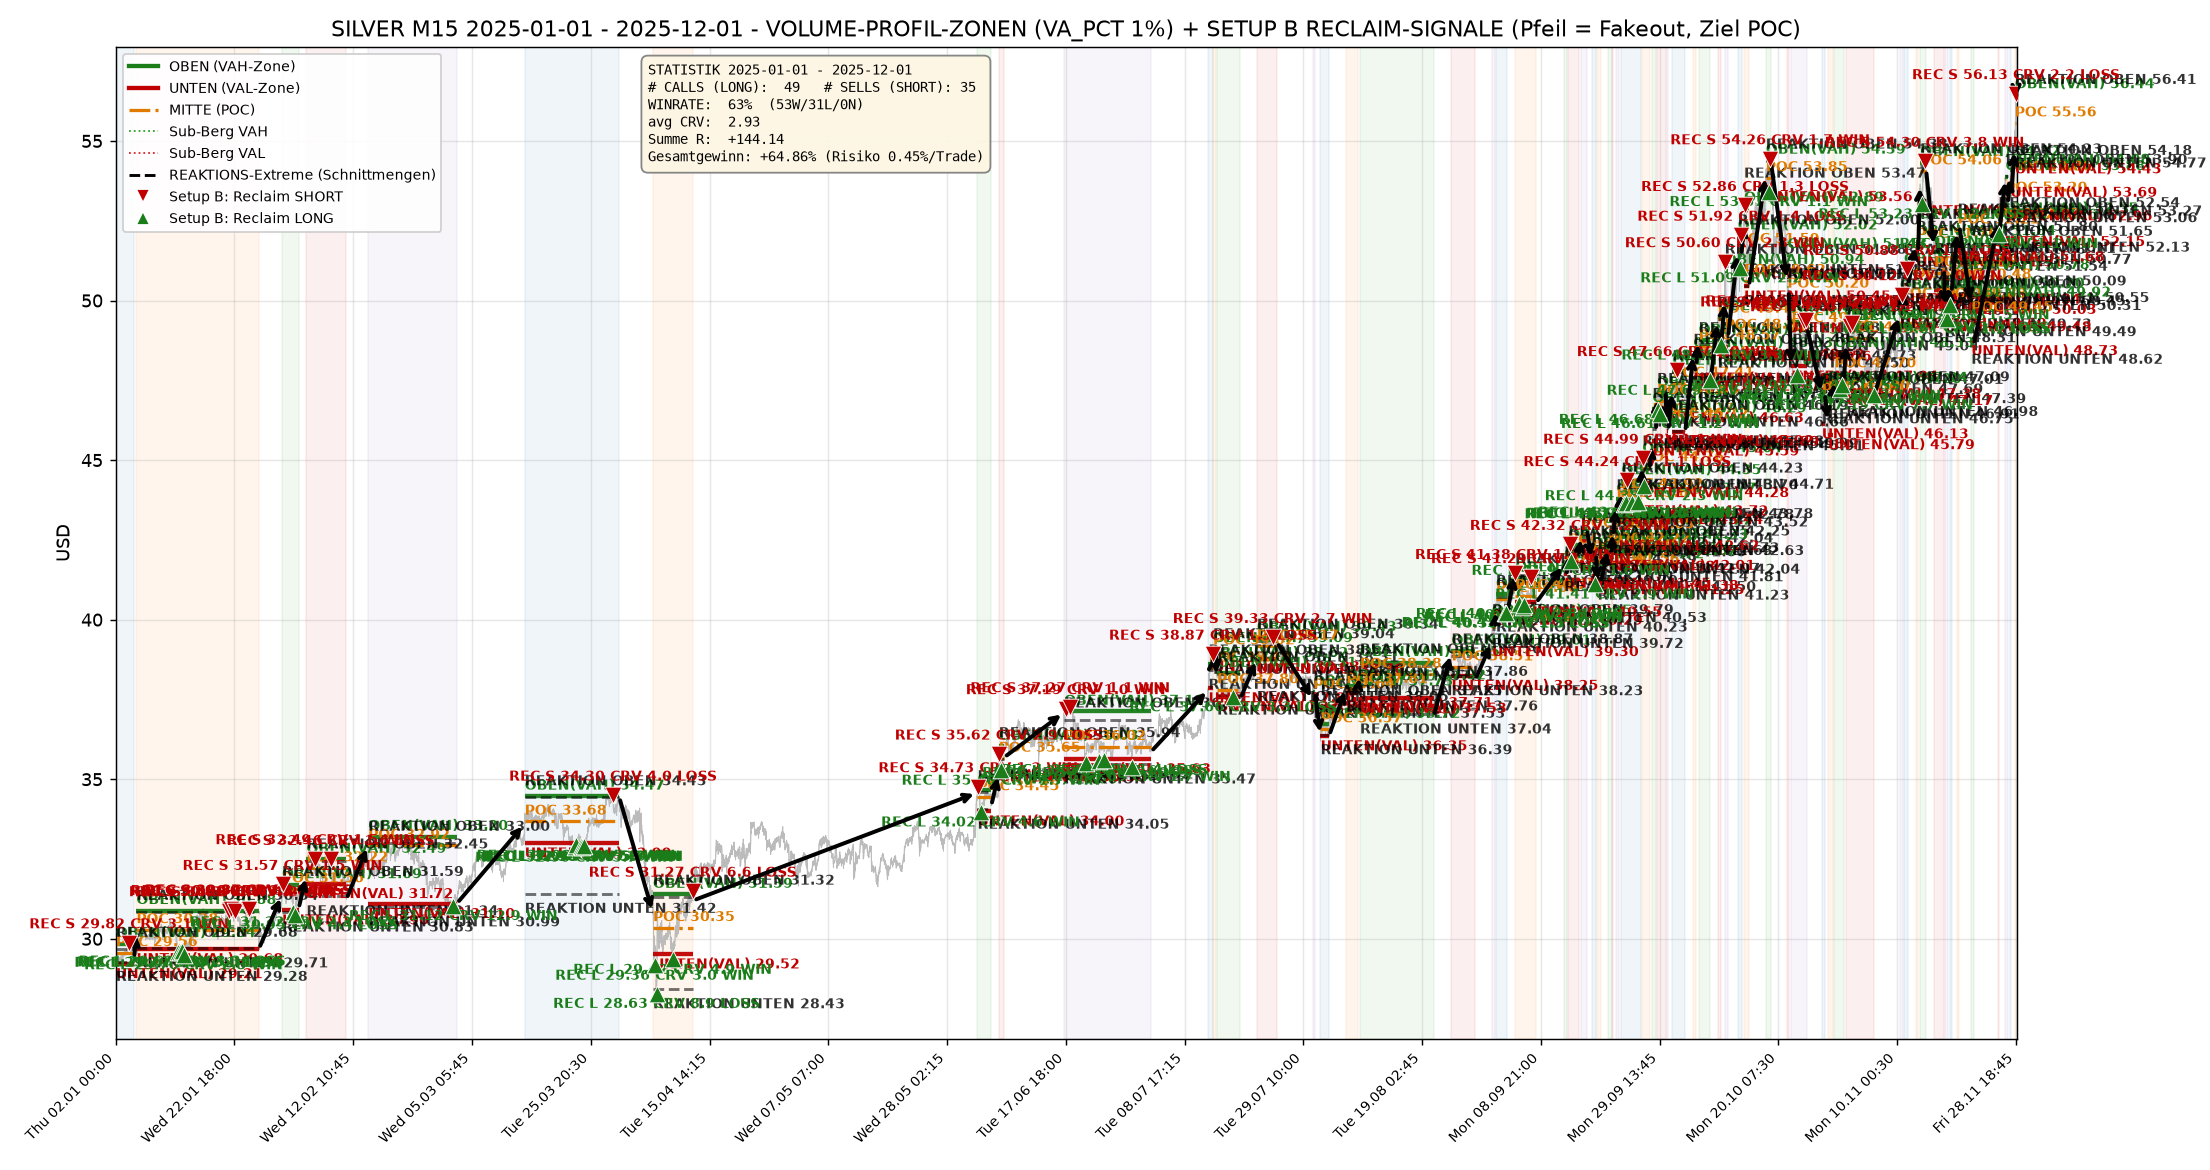
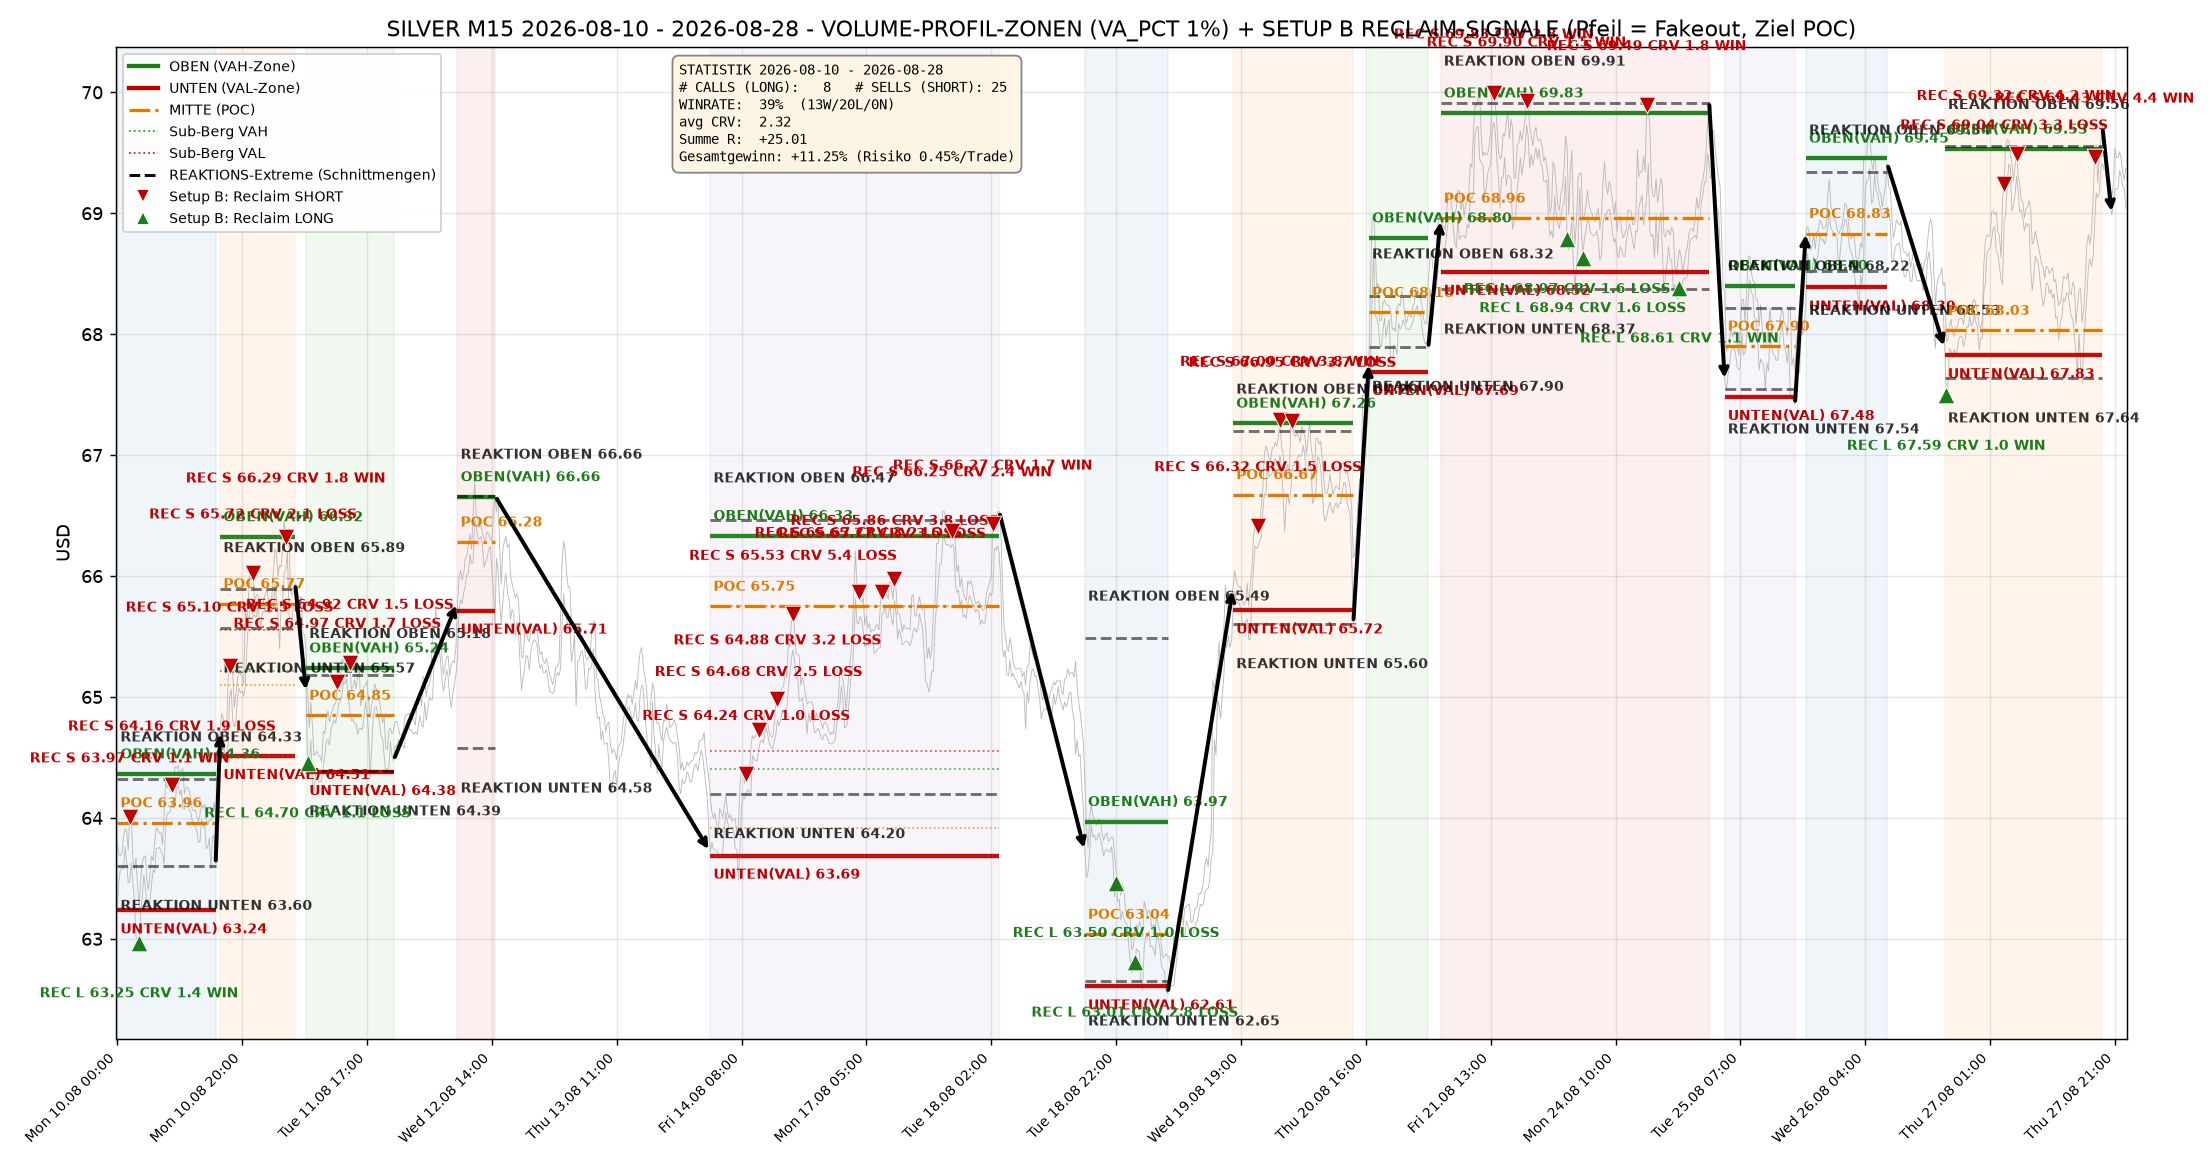
Lookahead tests

diff --git a/scripts/tmp_phasen_volumen_profil.py b/scripts/tmp_phasen_volumen_profil.py
@@ -136,12 +136,17 @@ MIN_RECLAIM_BOUNCE = 2    # min. Bounce-Nummer an der Kante.
                           #   Bo=1-Signale sind zu 82% Verluste (14/17, netto -5.26R)
                           #   und werden gefiltert. Per --bounce=N testbar.
 MIN_RECLAIM_CRV = 1.0     # min. CRV (Risiko-Ertrag) fuer ein Signal (Patrick ~1:3)
-MIN_SIGNAL_ABSTAND_BARS = 12  # Cooldown: keine 2 Signale gleicher Richtung in 12 Bars
-                              #   GETESTET (Reihentest 05.02.-28.08.26, 82-95 Signale):
-                              #   Sweet Spot CD=12: +91.60R / avg +1.08 (klar vor CD=8
-                              #   +91.25, CD=10 +84.81, CD=14 +88.92, CD=16 +82.83).
-                              #   Fruherer CD=16-Default stammte nur aus Aug+Jun mit
-                              #   50/50-Split - haelt dem grossen Sample nicht stand.
+MIN_SIGNAL_ABSTAND_BARS = 8   # Cooldown: keine 2 Signale gleicher Richtung in 8 Bars
+                              #   GETESTET (kausal, Re-Optimierung 31.08.2026, 2 Samples):
+                              #   S1 2026-02-05..08-28: CD=8 +219.14R/226 Sig/43% WR vs.
+                              #   CD=12 +197.26R/201 Sig/44% WR (alter Lookahead-Default).
+                              #   S2 2025-01-01..12-01 (OOS): CD=8 +110.79R/240 Sig vs.
+                              #   CD=12 +99.88R/210 Sig. CD=8 gewinnt BEIDE Samples
+                              #   (+22R/+11R) bei gleichem avg R -> mehr Signale gleicher
+                              #   Qualitaet, kein Overfit (CD=14 war nur in S1 gut =
+                              #   verworfen). CD=6 bringt weitere +11R/+5R, aber mit
+                              #   abnehmendem Grenznutzen und sinkendem avg R -> CD=8
+                              #   als Knie-Punkt gewaehlt. Per --cooldown=N testbar.
 SL_PCT = 0.45             # SL bei Entry: % vom Einstiegspreis (SHORT +, LONG -)
                           #   GETESTET (Reihentest 05.02.-28.08.26, 82 Signale):
                           #   Sweet Spot 0.35-0.45; 0.45 = hoechster avg R +0.98
@@ -847,11 +852,12 @@ print(f"RESULTAT: {len(phases)} Phasen gesamt, {len(_relevant)} ab 21.08. (Refer
 # (Reclaim). Einstieg NACH Bestaetigung, Ziel = POC (Fair Value), SL
 # hinter der Kante.
 #
-# KAUSALITAET: Fuer jede Kandidaten-Bar wird das Volume-Profil NUR bis zu
-# dieser Bar berechnet (laufende Zone - kein Lookahead). Die finale
-# Phasen-Zone dient nur als Kandidaten-Screening; Bars, die nur die
-# laufende, nie die finale Kante erreichen, gelten als "Zone noch nicht
-# etabliert" und werden uebersprungen (passt zu Patricks 3-Touch-Regel).
+# KAUSALITAET (Bereinigt 31.08.2026): Der Signal-Loop ist REIN SEQUENTIELL
+# in Echtzeit - fuer jede Bar k wird das Volume-Profil NUR bis zu dieser
+# Bar berechnet (laufende Zone, kein Blick in die Zukunft). Es gibt KEIN
+# finales Zonen-Screening mehr: Jede Bar der Phase wird gegen ihre laufende
+# Zone geprueft, genau wie ein Live-Trader es zum Zeitpunkt des Signals
+# tun wuerde.
 def _laufende_zone(df, p, k):
     """Volume-Zone kausal bis Bar k (inklusive)."""
     return compute_volume_zone(df.iloc[p["i_start"]:k + 1])
@@ -1014,10 +1020,6 @@ def find_reclaim_signals(df, p, min_candles=MIN_RECLAIM_CANDLES,
     - Cooldown: keine 2 Signale gleicher Richtung innerhalb cooldown_bars.
     """
     sigs = []
-    vz_full = p.get("vol_zone")
-    if vz_full is None:
-        return sigs
-    U_full, L_full = vz_full["U_zone"], vz_full["L_zone"]
     hi = df["high"].values
     lo = df["low"].values
     cl = df["close"].values
@@ -1027,11 +1029,13 @@ def find_reclaim_signals(df, p, min_candles=MIN_RECLAIM_CANDLES,
     tp2_puffer = TP2_PUFFER_PCT / 100.0
     sl_p = SL_PCT / 100.0
 
-    # Kandidaten-Screening: Bars ausserhalb der FINALEN Kante (vektorisiert)
-    cand = np.where((hi > U_full) | (lo < L_full))[0]
-    cand = cand[(cand >= p["i_start"]) & (cand < p["i_ende"])]
-
-    for k in cand:
+    # REIN SEQUENTIELL (kein Lookahead): JEDE Bar der Phase wird einzeln
+    # durchlaufen. Die laufende Zone wird nur aus den Bars i_start..k
+    # berechnet - zum Zeitpunkt des Signals existieren exakt diese Bars.
+    # Ein finales Zonen-Screening gibt es bewusst NICHT mehr (Bereinigung
+    # 31.08.2026: frueher filterte die FINALE Zone der ganzen Phase die
+    # Kandidaten vor - ein Blick in die Zukunft).
+    for k in range(p["i_start"], p["i_ende"]):
         if k - p["i_start"] + 1 < min_candles:
             continue
         vz = _laufende_zone(df, p, k)
@@ -1046,7 +1050,7 @@ def find_reclaim_signals(df, p, min_candles=MIN_RECLAIM_CANDLES,
         if hi[k] > U:
             if cl[k] <= U:
                 e_bar, e_preis, reclaim = k + 1, float(op[k + 1]), "in_bar"
-            elif k + 1 <= p["i_ende"] and cl[k + 1] <= U:
+            elif k + 2 <= p["i_ende"] and cl[k + 1] <= U:
                 e_bar, e_preis, reclaim = k + 2, float(op[k + 2]), "next_bar"
             else:
                 e_bar, reclaim = None, None
@@ -1075,7 +1079,7 @@ def find_reclaim_signals(df, p, min_candles=MIN_RECLAIM_CANDLES,
         if lo[k] < L:
             if cl[k] >= L:
                 e_bar, e_preis, reclaim = k + 1, float(op[k + 1]), "in_bar"
-            elif k + 1 <= p["i_ende"] and cl[k + 1] >= L:
+            elif k + 2 <= p["i_ende"] and cl[k + 1] >= L:
                 e_bar, e_preis, reclaim = k + 2, float(op[k + 2]), "next_bar"
             else:
                 e_bar, reclaim = None, None
@@ -1234,8 +1238,8 @@ _trail_txt = f" | TRAILING {TRAILING_PCT:.2f}%" if TRAILING_PCT > 0 else ""
 _nach_txt = "SL bleibt am Entry (kein Nachzug)"
 _ant_txt = (f"{ANTEIL_TP1:.0f}/{100-ANTEIL_TP1:.0f}" if 0 < ANTEIL_TP1 < 100
             else ("100/0" if ANTEIL_TP1 >= 100 else "0/100"))
-print(f"\n=== SETUP B: RECLAIM-SIGNALE (SL {SL_PCT:.1f}% Entry; {_nach_txt}; "
-      f"TP2=Box-Ende innen 0.15%; Split {_ant_txt}{_trail_txt}; alle aufgeloest) ===")
+print(f"\n=== SETUP B: RECLAIM-SIGNALE (SL {SL_PCT:.2f}% Entry; {_nach_txt}; "
+      f"TP2=Box-Ende innen {TP2_PUFFER_PCT:.2f}%; Split {_ant_txt}{_trail_txt}; alle aufgeloest) ===")
 if not reclaim_signals:
     print("  keine Signale")
 for s in reclaim_signals:
@@ -1245,7 +1249,7 @@ for s in reclaim_signals:
           f"| CRV {s['crv']:.2f} | Bo {s['bounce_nr']} | H1 {s['exit1']:.3f} ({s['grund1']}) {s['r1']:+.2f}R | "
           f"H2 {s['exit2']:.3f} ({s['grund2']}) {s['r2']:+.2f}R | {s['resultat']} {s['r_mult']:+.2f}R")
 
-print(f"\n=== STATISTIK SETUP B (SL {SL_PCT:.1f}% Entry; {_nach_txt}; Split {_ant_txt}{_trail_txt}) ===")
+print(f"\n=== STATISTIK SETUP B (SL {SL_PCT:.2f}% Entry; {_nach_txt}; Split {_ant_txt}{_trail_txt}) ===")
 print(f"  Signale: {len(reclaim_signals)} | GEWONNEN {_n_win} | VERLOREN {_n_loss} | NEUTRAL {_n_neu}")
 if _n_win + _n_loss > 0:
     print(f"  Trefferquote: {100.0*_n_win/(_n_win+_n_loss):.0f}% (nur entschiedene)")
@@ -1257,7 +1261,7 @@ print(f"  TP1(POC) erreicht: {_n_tp1}/{len(reclaim_signals)} | TP2(Box-Ende) err
 
 # --- SETUP C Ausgabe (nur bei --moves=1) ---
 if TRADE_MOVES:
-    print(f"\n=== SETUP C: MOVE-TRADES (Breakout-Riding; SL {SL_PCT:.1f}% hinter der Kante) ===")
+    print(f"\n=== SETUP C: MOVE-TRADES (Breakout-Riding; SL {SL_PCT:.2f}% hinter der Kante) ===")
     if not move_signals:
         print("  keine Signale")
     for s in move_signals:
